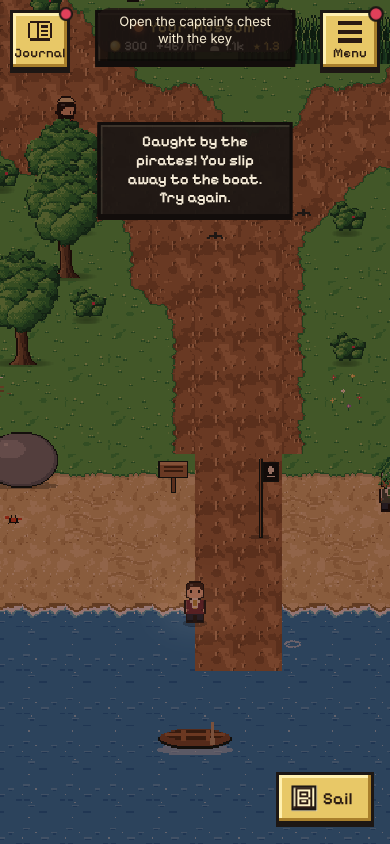
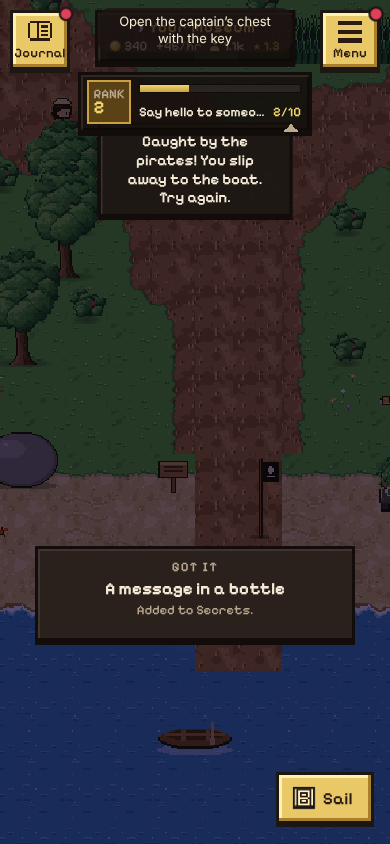
UI: clearer C in the pixel font, Field Journal and progression screens held to the floors, decisions written up (Chat 16) (#203)
* UI: capital C opened up in the pixel font, Field Journal tabs as a 44px grid, goal buttons 44px, progression screens in the ratchet

Claude-Session: https://claude.ai/code/session_01YHagmRkDuJmzpqsGnAZTiY

* UI: bubble name at 13px after the feedback pass

Claude-Session: https://claude.ai/code/session_01YHagmRkDuJmzpqsGnAZTiY

* Docs: UI-FLOWS decisions and where they ended up; two small decisions parked under Needs Sean

Claude-Session: https://claude.ai/code/session_01YHagmRkDuJmzpqsGnAZTiY

---------

diff --git a/src/ui/guide.js b/src/ui/guide.js
@@ -16,7 +16,7 @@ const html = `
   <p style="font:600 var(--fs-lead)/1.2 var(--ui-font)">Lead 17: the main line of a row</p>
   <p style="font:400 var(--fs-body)/1.3 var(--ui-font)">Body 15: instructions and descriptions in the interface.</p>
   <p style="font:400 var(--fs-small)/1.3 var(--ui-font);color:var(--ui-muted)">Small 13: the smallest text anywhere.</p>
-  <p style="font:400 var(--fs-body)/1.3 var(--ui-font)">Font check: fish file fine finger first find · 3,500 gold · Level 5 of 5 · 0123456789</p>
+  <p style="font:400 var(--fs-body)/1.3 var(--ui-font)">Font check: fish file fine finger first find · Catch Collect Curator Coins · 3,500 gold · Level 5 of 5 · 0123456789</p>
   <p class="ui-prose">Prose (Georgia): museum text. Late summer: peasants cut wheat while others eat lunch under a pear tree.</p>
 </section>
 <section><h2 class="ui-label">Buttons</h2>

diff --git a/src/ui/skin.css b/src/ui/skin.css
@@ -544,3 +544,21 @@ body:has(#viewer:not(.hidden)) #prog-pill {
   visibility: hidden;
   pointer-events: none;
 }
+
+/* ---- the Field Journal's page tabs: twelve of them, as an even grid of 44 px buttons ---- */
+body .pg-tabs {
+  display: grid;
+  grid-template-columns: repeat(4, minmax(0, 1fr));
+  gap: var(--sp-2);
+  margin-bottom: var(--sp-3);
+}
+body .pg-tabs button {
+  min-height: var(--ui-hit);
+  padding: 4px 2px;
+  overflow: hidden;
+  text-overflow: ellipsis;
+  white-space: nowrap;
+}
+body .pg-row button { min-height: var(--ui-hit); min-width: var(--ui-hit); padding: 6px 12px; }
+body .pg-cell { font-size: var(--fs-small); }
+body #talk .talk-who { font-size: var(--fs-small); }

diff --git a/docs/TODO.md b/docs/TODO.md
@@ -220,6 +220,7 @@ Owns: new `docs/progression/` (write-ups, CSV, Python models and analysis), new 
 Mini-games (Mop Rush, No Flash!, Restoration-as-minigame, Crate Tetris, Hang it Straight, Tour Guide, Night Watch, Catch the Thief, Paparazzi) · gems, ads, cosmetics, exhibition pass, crates · multiplayer / auctions · a sequel where the museum is part of a city · menu redesign · art direction and hiring.
 
 ## Needs Sean (parked questions; chats keep working)
+- **UI (Chat 16), two small decisions:** (1) The Field Journal (goals, market, lodge, people, places, emotes, titles, records: 12 pages) is a second journal with its own tab grid. Default if you say nothing: leave it as is. Option: make it one more card in the Journal overview so there is one place to go. (2) Celebrations (goal done, set done, room built) and the progression layer's reward cards have two separate queues. Default: leave as is. Option: route celebrations through the progression queue so there is one priority order (they would then appear after the Journal closes instead of while it is open).
 - **Chat 6:** defaults I picked, all in `src/dig.js` / `src/puzzles-hunt.js` for easy change: trowel unlocks at 6 different dug finds, pick at 16, metal detector at 10; digs rest 10 min; daily dig goal is 3 digs for 120 gold; 3 things buried per island per day; a site bonus needs 3+ touching dig tiles.
 - **Chat 6:** the one `x_mark` tile on Main Island (and one on Island One) is now the map-fragment treasure and stays hidden until you hold four map pieces. Do you want it to stay, move, or should I use a different tile?
 - **Chat 6:** the Puzzle yard test island (`content/maps/puzzle-yard.json`) is not in the boat yet; it needs the builder's import (Chat 2) or a boat entry (Chat 7). Dig-site sandbox: same file.
@@ -244,7 +245,7 @@ Mini-games (Mop Rush, No Flash!, Restoration-as-minigame, Crate Tetris, Hang it 
 
 ## Cross-chat requests (add a line, carry on)
 - **Chat 16 to everyone:** UI overhaul in progress. New menus and panels should use the `ui-*` components in `docs/UI.md` once it lands (until then keep your menu markup simple and class-based); please don't restyle menus yourselves. Chat 16 restyles through shared tokens and won't rewrite your logic or change element ids tests use.
-- **Chat 16 → Chat 18 (and everyone):** `node tests/ui-layout.cjs` now fails on any screen with a visible control under 44 px or text under 13 px (it caught the goal pill's 28×14 fold button and 9 px "RANK" label; I fixed them in `src/ui/skin.css`, one block at the end). A panel that is open hides `#prog-pill` (it sat on top of sheet handles). Please keep new text at `var(--fs-small)` (13 px) or larger and new buttons at `var(--ui-hit)` (44 px); sheets close by tapping the dimmed world or swiping the handle (`src/ui/chrome.js`, nothing to wire).
+- **Chat 16 → Chat 18 (and everyone):** `node tests/ui-layout.cjs` now fails on any screen with a visible control under 44 px or text under 13 px (it caught the goal pill's 28×14 fold button and 9 px "RANK" label; I fixed them in `src/ui/skin.css`, one block at the end). A panel that is open hides `#prog-pill` (it sat on top of sheet handles). Please keep new text at `var(--fs-small)` (13 px) or larger and new buttons at `var(--ui-hit)` (44 px); sheets close by tapping the dimmed world or swiping the handle (`src/ui/chrome.js`, nothing to wire). The ratchet now also opens a task card, the rank ceremony and every Field Journal page (`tests/ui-lib.cjs`). Two asks: show gold the same way everywhere (the HUD and Journal say `4,300`; the Market says `4300 gold`; `toLocaleString()` or `shortNum()` from `src/ui/num.js`), and if you add a page to the Field Journal it needs no change to the tests (they read the tab list).
 - **Chat 13 to Chat 10:** "daily guests" belong with the famous visitors. `src/daily.js` has `dayNum()`; if you want a "today's guest" pick, key it on that and I'll show it on the Today panel.
 
 - Chat 14 → Chat 9/12: `applyHall(roomIndex, hall)` (`src/halls/apply.js`) restyles a built room for free and returns `before` for `undoHall`. A menu button and any price are yours to decide; it refuses fixed rooms.

diff --git a/docs/UI-FLOWS.md b/docs/UI-FLOWS.md
@@ -74,5 +74,15 @@ Today panels call `pause(true)`, which also closes a conversation. A story promp
 | Builder: place a piece, turn it, undo | ~4 | 4 |
 | Builder: new map, switch, restore an earlier version | ~4 | 4 |
 
-## 7. Decisions (made in phase 1; see `docs/UI.md` once it lands)
-Written after the audit above: navigation model, the Journal's overview and collection picker, the sheet / card / full-screen rule, and the event queue.
+## 7. Decisions, and where they ended up
+**Navigation.** A labelled left column (Journal, Build, Style) for the three things people open all the time, one **Menu** on the right for the rest (Today, Your museum, Share & visit, Settings), the status strip in the middle (tap: income), the pill for the goal under it. *Why not a bottom bar:* the bottom corners belong to the stick and the Interact button, and a thumb that is walking must never hit a menu. *Why not everything in one hub:* Journal and Build are 1 tap now and are used far more than Settings. Labels sit under the icons because nobody could say what the hammer, the house and the gear did. On islands the museum-only buttons are put away; Journal and Menu stay.
+
+**Three weights, one at a time.** Sheets (lists, pickers, settings) slide from the bottom with the world dimmed behind; cards (rewards, confirms) are centred and short; the viewer is full screen. Opening a panel from a panel replaces it with a back button, never stacks. Closing is the same everywhere: the X in the same corner, **tap the dimmed world, swipe the sheet down by its handle, Esc**. The exceptions are on purpose: a confirm (an explicit answer), Customize (you are looking at the room), the Restoration Studio (work in progress), anything with half-typed text.
+
+**Journal.** The first screen is you: three numbers, the next goals (with the claim button), then one card per collection (cover or silhouette, progress bar, "n new") instead of 17 tabs; each collection opens as a page with a back button; Codex, Storage and Gallery Shop sit below. The Field Journal (progression) uses a 4 × 3 grid of 44 px page tabs; it is a candidate to become one more card in the overview (see Needs Sean in `docs/TODO.md`).
+
+**Interruptions and queues.** Toasts queue (`say()`, one at a time, the same line twice shows once); celebrations queue (`celebrate()`, one after another with "n more"); the progression layer has its own reward queue that waits while a menu, a conversation or a minigame owns the screen. A conversation or a panel hides the goal pill. *Still two queues:* routing `celebrate()` through the progression queue would give one priority order; it changes when goal and set cards appear (after the Journal closes instead of while it is open), so it is a decision for Sean, not a quiet refactor.
+
+**Feedback and numbers.** Gold, income and visitors in the strip use `shortNum()` (999,999, then 1.2M, 1.2bn, 1.2T) and the strip wraps rather than cutting a stat off. Prices say "Free (500 gold)" or "Free for now"; testing words live only under Settings → Testing. Large text, reduced motion and left-handed layout are Settings → Look and Play.
+
+**Where the tap budgets stand** (`tests/ui-flows.cjs`, real taps from the world): see income 1 (budget 1), journal to the fish 2 (2), Gallery Shop 2 (2), daily gift 3 (3), change a setting 3 (3), apply a theme 2 (3), change a floor 3 (3), pick a decor item to place 2 (2), Share & visit 2 (3), tap out of the Journal 2 (2), swipe Settings closed 3 (3), a short pull springs back 3 (3), Menu open and close 2 (2). The longer journeys in the table above (hang a painting, build a room, clean a find) are guarded by the feature tests rather than a tap count.

diff --git a/docs/UI.md b/docs/UI.md
@@ -61,7 +61,7 @@ Fill the close button with `uiIcon('close')`. Buttons say what they do, in sente
 - **Closing a panel:** tap the dimmed world (Journal, Settings, Income, Office, Staff, Wall spot, Display, Build a room) or swipe the sheet down by its handle; both live in `chrome.js`. Left out on purpose: the confirm dialog (an explicit answer), Customize (you are looking at the room) and the studio (work in progress). A drag that starts inside a sheet never counts as a backdrop tap.
 - **Numbers:** `shortNum()` in `src/ui/num.js` (whole with commas up to 999,999, then 1.2M, 1.2bn, 1.2T; "bn" because in this pixel font a B looks like an 8). The status strip uses it and wraps onto a second line rather than cutting a stat off; Collect all follows the strip's bottom edge.
 - **Accessibility:** `tests/ui-layout.cjs` fails any visible control with no name for a screen reader (no text, `aria-label`, `title` or `<label>`); overlays are `role="dialog" aria-modal="true"`; toasts are a polite live region; *Escape* closes the panel on top (`chrome.js`).
-- **Two fixes to the bundled Pixelify Sans:** the numeral 5 is redrawn with a flat top (the original reads as the letter S at small sizes: "3,500" looked like "3,S00"), and its ligatures are removed (the original draws "fi" like an A, so "fish" read "Ash"). Nothing else changed; the note is in `src/ui/fonts/PixelifySans-OFL.txt`. If you ever swap the font file, check both (`ui.html` shows a sample line).
+- **Three fixes to the bundled Pixelify Sans:** the numeral 5 is redrawn with a flat top (the original reads as the letter S at small sizes: "3,500" looked like "3,S00"), its ligatures are removed (the original draws "fi" like an A, so "fish" read "Ash"), and the capital C has a wider opening (it read as an O: "Oatch"). Nothing else changed; the note is in `src/ui/fonts/PixelifySans-OFL.txt`. If you ever swap the font file, check both (`ui.html` shows a sample line).
 - **Prices** never say "testing" in the UI: a free price reads "Free (500 gold)" or "Free for now (500 gold)".
 - **Tests:** `tests/nav.cjs` has `openHub`, `jtab` and `openGroup`; `tests/ui-flows.cjs` holds tap budgets for the key journeys; `tests/ui-layout.cjs` guards layout; `tests/ui-shots.cjs` takes the screenshots.
 
